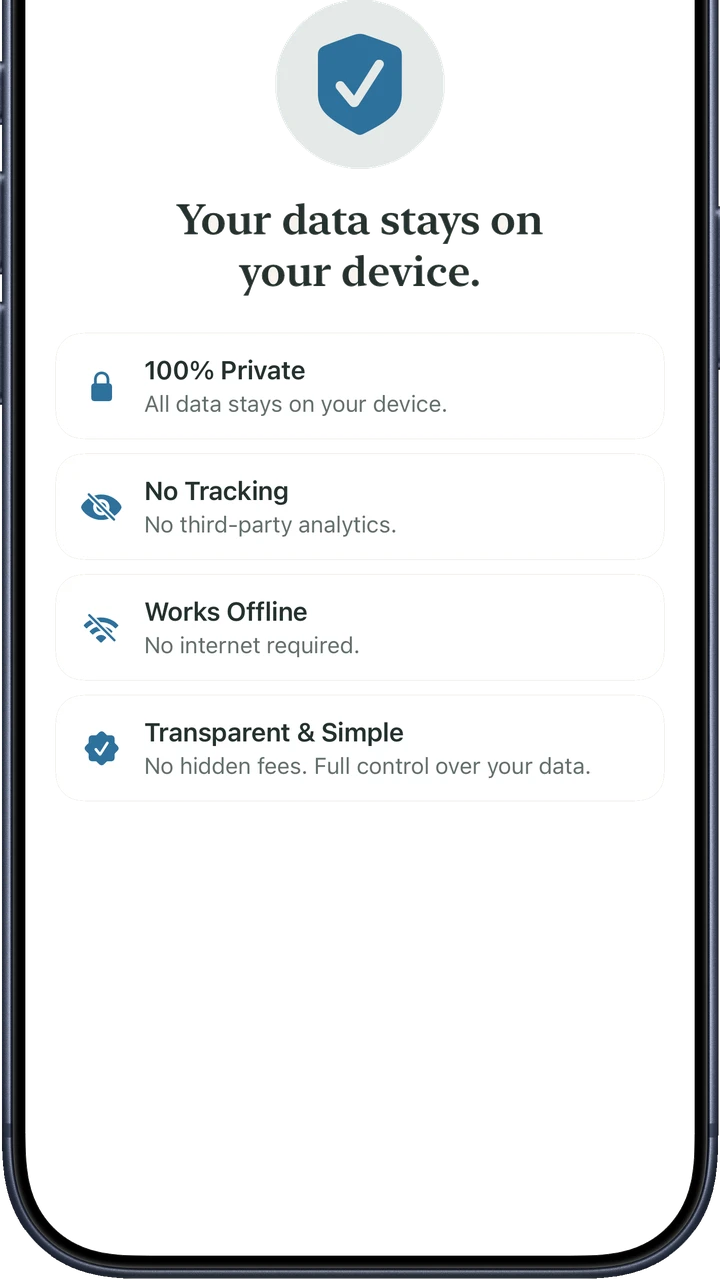
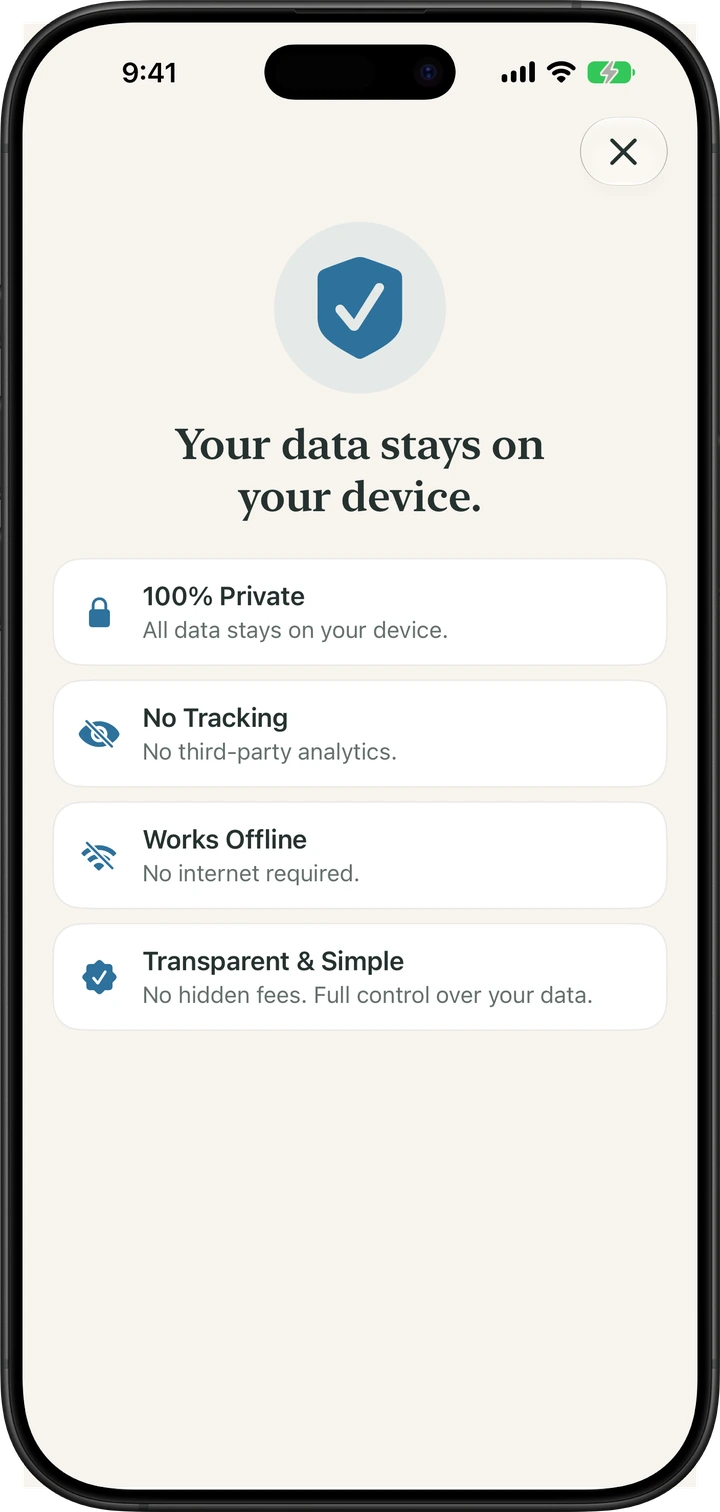
fix(mockups): composite raw simulator captures onto official Apple titanium frame template for flawless transparent bezels

diff --git a/index.html b/index.html
@@ -128,7 +128,7 @@
           <div class="hero-visual" aria-label="Quit Vaping Today screen preview">
             <div class="hero-orbit" aria-hidden="true"></div>
             <div class="hero-phone-container">
-              <img class="hero-phone" src="assets/screens/hero-today-recovery.webp" alt="Quit Vaping Today screen showing vape-free days, check-in controls, body recovery timeline, savings estimate, and streak" width="540" height="1174" fetchpriority="high">
+              <img class="hero-phone" src="assets/screens/hero-today-recovery.webp" alt="Quit Vaping Today screen showing vape-free days, check-in controls, body recovery timeline, savings estimate, and streak" width="720" height="1512" fetchpriority="high">
               <div class="hero-floating-card hero-floating-rem" aria-hidden="true">
                 <span class="floating-icon">🧠</span>
                 <div>
@@ -382,43 +382,43 @@
 
         <div class="story-gallery" role="list" aria-label="Quit Vaping App Store screenshots">
           <figure class="story-card" role="listitem">
-            <img src="assets/appstore/01-calm-progress.webp" alt="Quit Vaping Calm Progress main screen" width="640" height="1137" loading="lazy" decoding="async">
+            <img src="assets/appstore/01-calm-progress.webp" alt="Quit Vaping Calm Progress main screen" width="640" height="1344" loading="lazy" decoding="async">
             <figcaption>Daily Progress &amp; Streaks</figcaption>
           </figure>
           <figure class="story-card" role="listitem">
-            <img src="assets/appstore/02-body-recovery.webp" alt="Quit Vaping Body Recovery Timeline" width="640" height="1137" loading="lazy" decoding="async">
+            <img src="assets/appstore/02-body-recovery.webp" alt="Quit Vaping Body Recovery Timeline" width="640" height="1344" loading="lazy" decoding="async">
             <figcaption>Cellular Body Recovery</figcaption>
           </figure>
           <figure class="story-card" role="listitem">
-            <img src="assets/appstore/03-urge-surfing.webp" alt="Quit Vaping 3-Minute Urge Surfing" width="640" height="1137" loading="lazy" decoding="async">
+            <img src="assets/appstore/03-urge-surfing.webp" alt="Quit Vaping 3-Minute Urge Surfing" width="640" height="1344" loading="lazy" decoding="async">
             <figcaption>3-Minute Craving SOS</figcaption>
           </figure>
           <figure class="story-card" role="listitem">
-            <img src="assets/appstore/04-savings.webp" alt="Quit Vaping Money Saved Calculator" width="640" height="1137" loading="lazy" decoding="async">
+            <img src="assets/appstore/04-savings.webp" alt="Quit Vaping Money Saved Calculator" width="640" height="1344" loading="lazy" decoding="async">
             <figcaption>Disposable Pod Savings</figcaption>
           </figure>
           <figure class="story-card" role="listitem">
-            <img src="assets/appstore/05-milestones.webp" alt="Quit Vaping Milestone Badges and Consistency" width="640" height="1137" loading="lazy" decoding="async">
+            <img src="assets/appstore/05-milestones.webp" alt="Quit Vaping Milestone Badges and Consistency" width="640" height="1344" loading="lazy" decoding="async">
             <figcaption>Milestones &amp; Badges</figcaption>
           </figure>
           <figure class="story-card" role="listitem">
-            <img src="assets/appstore/06-calendar.webp" alt="Quit Vaping Progress Calendar" width="640" height="1137" loading="lazy" decoding="async">
+            <img src="assets/appstore/06-calendar.webp" alt="Quit Vaping Progress Calendar" width="640" height="1344" loading="lazy" decoding="async">
             <figcaption>Visual Month Calendar</figcaption>
           </figure>
           <figure class="story-card" role="listitem">
-            <img src="assets/appstore/07-check-in.webp" alt="Quit Vaping Daily Check-In" width="640" height="1137" loading="lazy" decoding="async">
+            <img src="assets/appstore/07-check-in.webp" alt="Quit Vaping Daily Check-In" width="640" height="1344" loading="lazy" decoding="async">
             <figcaption>Anti-Shame Check-In</figcaption>
           </figure>
           <figure class="story-card" role="listitem">
-            <img src="assets/appstore/08-privacy.webp" alt="Quit Vaping Local-First Privacy" width="640" height="1137" loading="lazy" decoding="async">
+            <img src="assets/appstore/08-privacy.webp" alt="Quit Vaping Local-First Privacy" width="640" height="1344" loading="lazy" decoding="async">
             <figcaption>100% On-Device Privacy</figcaption>
           </figure>
           <figure class="story-card" role="listitem">
-            <img src="assets/appstore/09-dark-mode.webp" alt="Quit Vaping OLED Dark Mode" width="640" height="1137" loading="lazy" decoding="async">
+            <img src="assets/appstore/09-dark-mode.webp" alt="Quit Vaping OLED Dark Mode" width="640" height="1344" loading="lazy" decoding="async">
             <figcaption>Focused Dark Mode</figcaption>
           </figure>
           <figure class="story-card" role="listitem">
-            <img src="assets/appstore/10-streak.webp" alt="Quit Vaping Consistency Streak Tracker" width="640" height="1137" loading="lazy" decoding="async">
+            <img src="assets/appstore/10-streak.webp" alt="Quit Vaping Consistency Streak Tracker" width="640" height="1344" loading="lazy" decoding="async">
             <figcaption>Consistency Streak</figcaption>
           </figure>
         </div>
@@ -464,7 +464,7 @@
             <a class="text-link" href="privacy.html">Read the Full Privacy Policy <span aria-hidden="true">↗</span></a>
           </div>
           <div class="privacy-phone-wrap">
-            <img class="privacy-phone" src="assets/screens/11-privacy-light.webp" alt="Quit Vaping 100% on-device privacy guarantee" width="540" height="1174" loading="lazy" decoding="async">
+            <img class="privacy-phone" src="assets/screens/11-privacy-light.webp" alt="Quit Vaping 100% on-device privacy guarantee" width="720" height="1512" loading="lazy" decoding="async">
           </div>
         </div>
       </section>

diff --git a/styles.css b/styles.css
@@ -1512,7 +1512,6 @@ h1 {
     width: min(clamp(340px, 38vw, 420px), 84%);
     border: none;
     border-radius: 0;
-    aspect-ratio: 540 / 1174;
     height: auto;
   }
 
@@ -1555,7 +1554,6 @@ h1 {
     width: min(clamp(320px, 35vw, 400px), 84%);
     border: none;
     border-radius: 0;
-    aspect-ratio: 540 / 1174;
     height: auto;
   }
 
